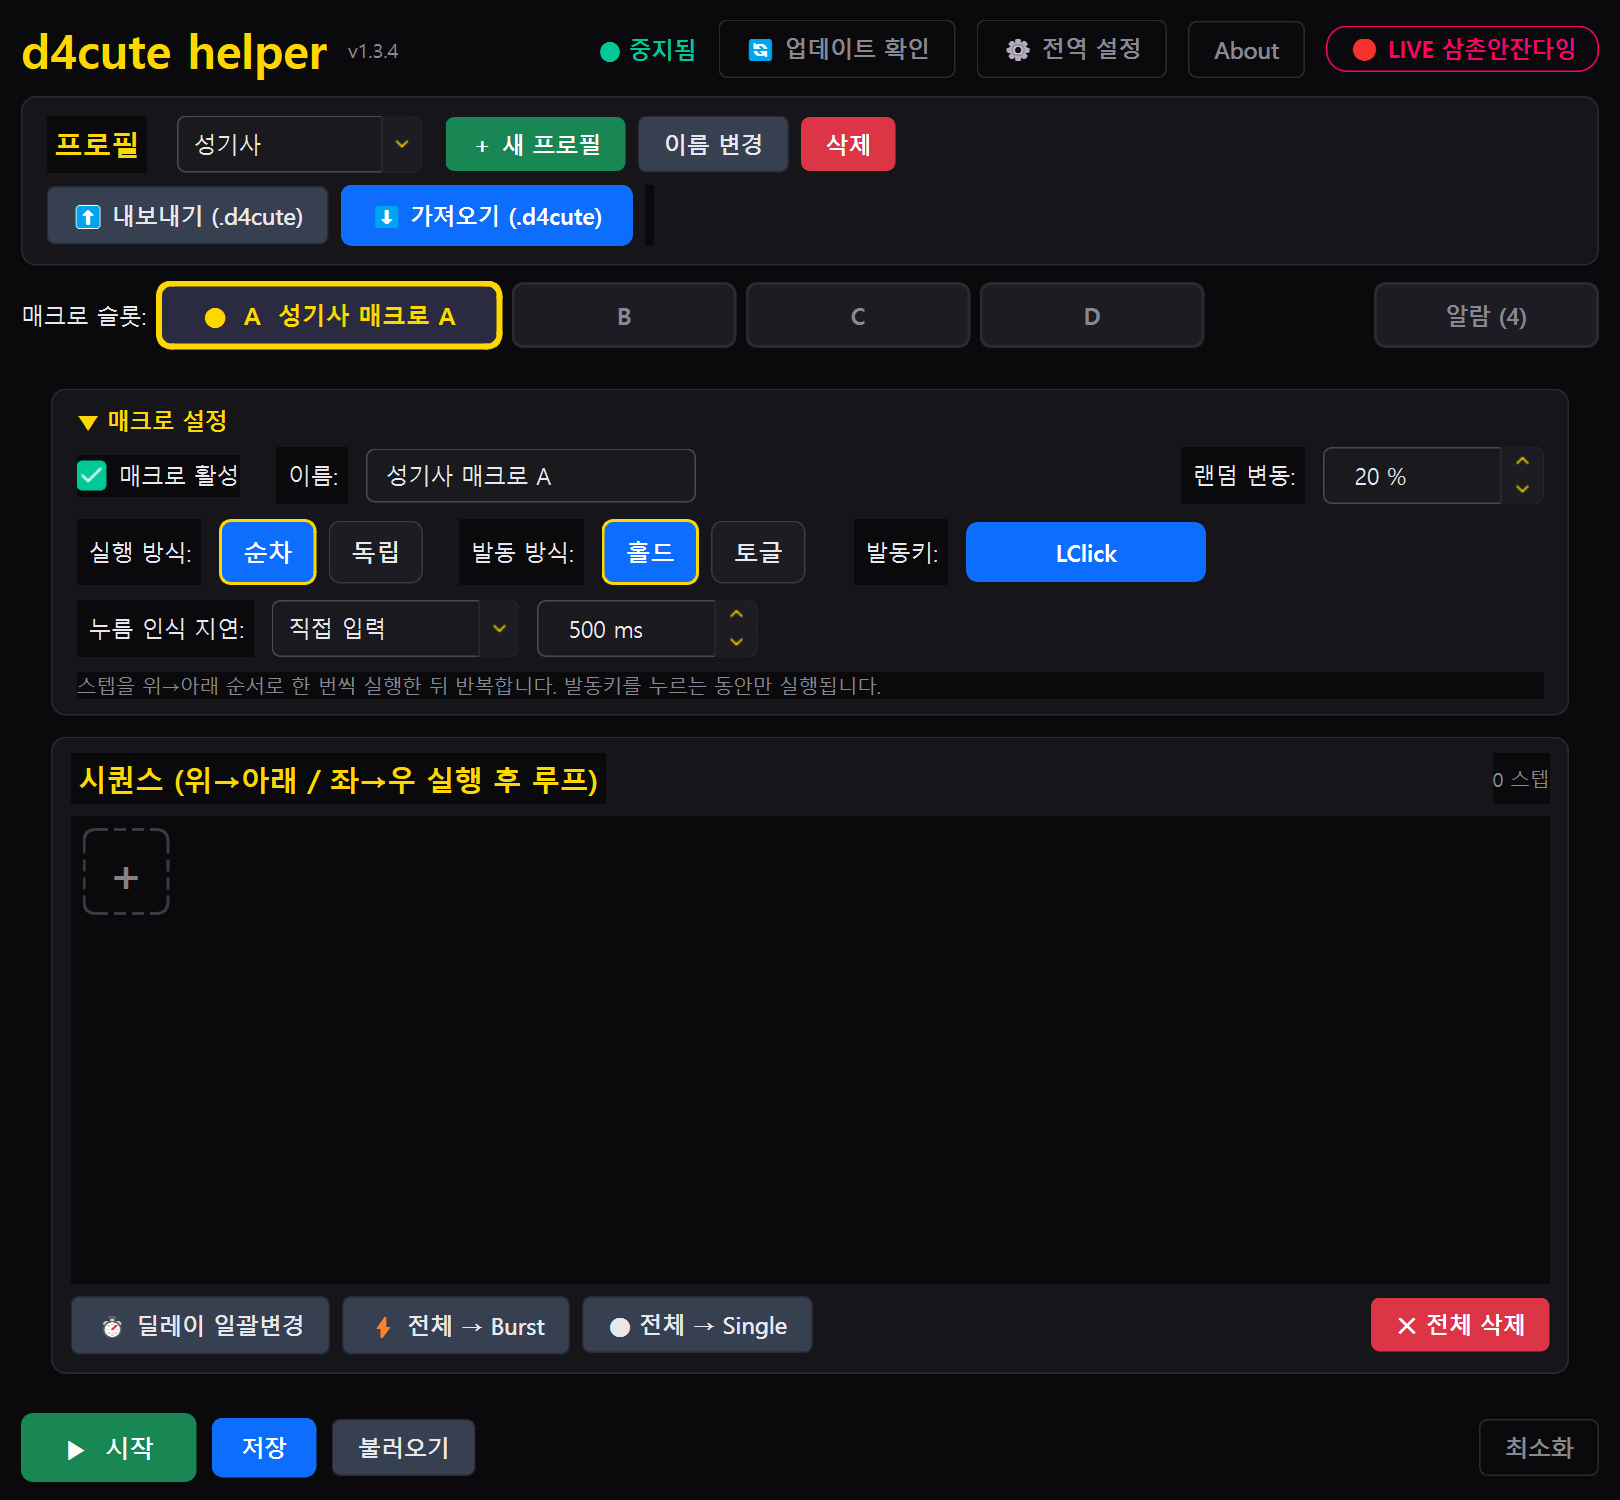
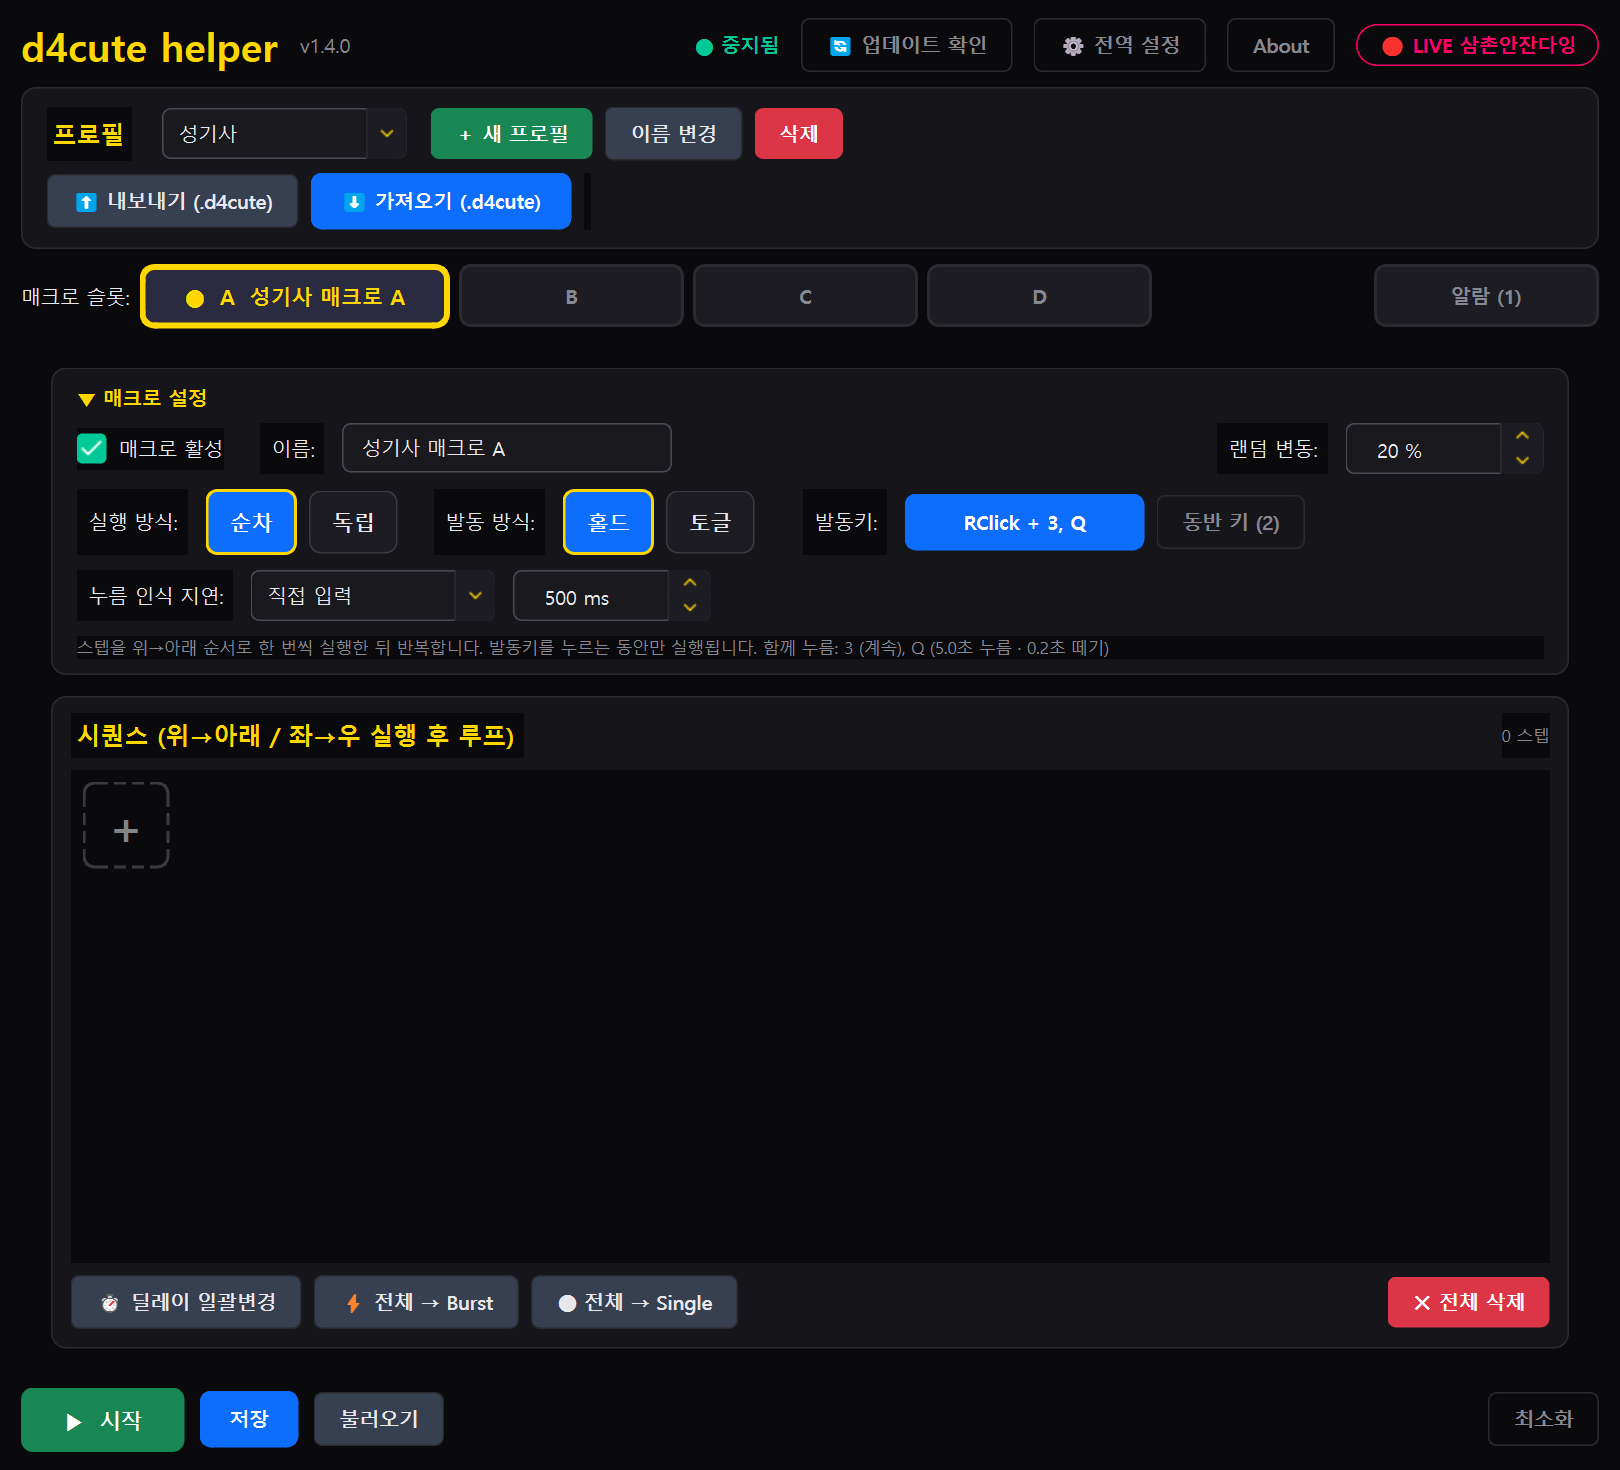
docs: 1.4.0 동반 키 기능 설명 + 팝업 스크린샷 + 프로필 공유 안내 갱신
- README 기능 설명에 '동반 키' 소절(동작·키별 누름/떼기 초·제한·안전) 추가, 메인 화면 스크린샷을 1.4.0 으로 교체
- 프로필/README: 프로필 파일에 동반 키가 포함됨(1.4.0 부터) 안내

diff --git a/README.md b/README.md
@@ -23,13 +23,23 @@
 ## 기능 설명
 
 ![메인 화면 — 프로필 · 매크로 슬롯 · 시퀀스](images/main-macro.png)
-*메인 화면: 프로필 카드, 매크로 슬롯 A~D, 매크로 설정, 시퀀스*
+*메인 화면: 프로필 카드, 매크로 슬롯 A~D, 매크로 설정(발동키 `RClick + 3, Q` · 동반 키 버튼), 시퀀스*
 
 ### 매크로 슬롯 A · B · C · D
 
 - 슬롯마다 이름과 켜기/끄기, **실행 방식**(순차 = 스텝을 위→아래 반복 / 독립 = 스텝마다 자기 딜레이로 따로 반복), **발동 방식**(홀드 = 누르는 동안만 / 토글 = 한 번 누르면 켜짐·꺼짐)을 정합니다.
 - **발동키**는 키보드 키나 마우스 버튼(오른쪽 클릭 등)이고 Ctrl · Shift · Alt 조합도 됩니다. 홀드 방식은 **누름 인식 지연**(즉시 · 짧게 · 길게 · 직접 입력)으로 오동작을 줄입니다.
 - **랜덤 변동(%)** 을 주면 딜레이가 매번 조금씩 달라집니다.
+
+### 동반 키(발동키와 함께 누르는 키) — 1.4.0
+
+![동반 키 팝업](images/companion-dialog.png)
+*동반 키 팝업: 캡처 칸에 키를 누르면 바로 추가, 키마다 누름 · 떼기 초*
+
+- 발동키 옆 **동반 키…** 버튼으로 엽니다. 매크로가 활성인 동안(홀드 = 발동키를 누르는 동안, 토글 = 켜진 동안) 지정한 키보드 키들을 **누른 상태로 유지**하고, 발동키를 떼거나 토글을 끄거나 중지하면 **같이 뗍니다**. 예: 오른쪽 클릭을 누르는 동안 `3` 도 눌린 상태.
+- 키마다 **누름 초 · 떼기 초**를 둡니다. 누름 `0` = 활성 동안 계속 누름(기본). `5.0 초 누름 · 0.2 초 떼기` 로 두면 5 초 누름 → 0.2 초 뗌 → 반복. 여러 키는 한 번에 동시에 누르고 동시에 뗍니다.
+- 최대 6 개, 키보드 키만(마우스 버튼 제외). 발동키 자신 · 발동키 조합의 Shift/Ctrl/Alt · 토글 자동 정지 키는 넣을 수 없습니다. 시퀀스 스텝이 동반 키와 같은 키를 누르면 스텝 뒤 자동으로 다시 누른 상태로 복원합니다.
+- 발동키 버튼이 `RClick + 3, Q` 처럼 표시되고, 오버레이에도 `시전중 [A] +3,Q` 로 보입니다. 중지 · Ctrl+F12 · 정지 키 · 알트탭 · 종료 어느 경우에도 눌린 키를 뗍니다.
 
 ### 시퀀스(스텝)
 
